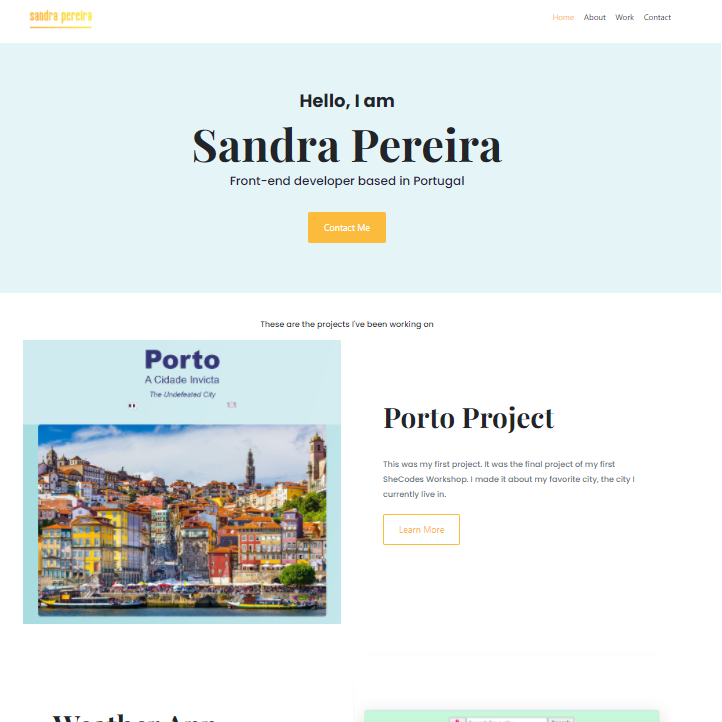
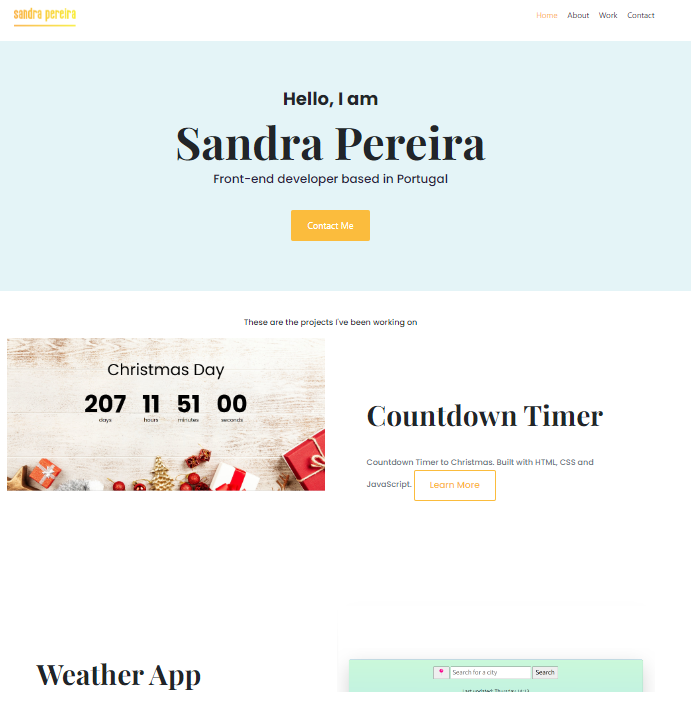
corrected styling of the page and images sizes

diff --git a/index.html b/index.html
@@ -80,10 +80,10 @@
             <h2 class="mb-5">Countdown Timer</h2>
             <p class="mb-4 text-muted">
               Countdown Timer to Christmas. Built with HTML, CSS and JavaScript.
-              <a class="btn btn-branding-outline" href="/work.html#christmas"
-                >Learn More</a
-              >
             </p>
+            <a class="btn btn-branding-outline" href="/work.html#christmas"
+              >Learn More</a
+            >
           </div>
         </div>
       </div>
@@ -127,6 +127,17 @@
         </div>
       </div>
       <div class="row mb-5">
+        <div class="col">
+          <div class="project-description">
+            <h2 class="mb-5">Dictionary App</h2>
+            <p class="mb-4 text-muted">
+              My final project at SheCodes. Built with React.
+            </p>
+            <a class="btn btn-branding-outline" href="/work.html#dictionary"
+              >Learn More</a
+            >
+          </div>
+        </div>
         <div class="col d-none d-lg-block">
           <img
             class="img-fluid"
@@ -134,19 +145,15 @@
             alt="Dictionary App preview"
           />
         </div>
-        <div class="col">
-          <div class="project-description">
-            <h2 class="mb-5">Dictionary App</h2>
-            <p class="mb-4 text-muted">
-              My final project at SheCodes. Built with React
-            </p>
-            <a class="btn btn-branding-outline" href="/work.html#dictionary"
-              >Learn More</a
-            >
-          </div>
-        </div>
       </div>
       <div class="row mb-5">
+        <div class="col d-none d-lg-block">
+          <img
+            class="img-fluid"
+            src="/images/react-weather.png"
+            alt="React Weather app preview"
+          />
+        </div>
         <div class="col">
           <div class="project-description">
             <h2 class="mb-5">React Weather App</h2>
@@ -158,13 +165,6 @@
               >Learn More</a
             >
           </div>
-        </div>
-        <div class="col d-none d-lg-block">
-          <img
-            class="img-fluid"
-            src="/images/react-weather.png"
-            alt="React Weather app preview"
-          />
         </div>
       </div>
       <footer>
